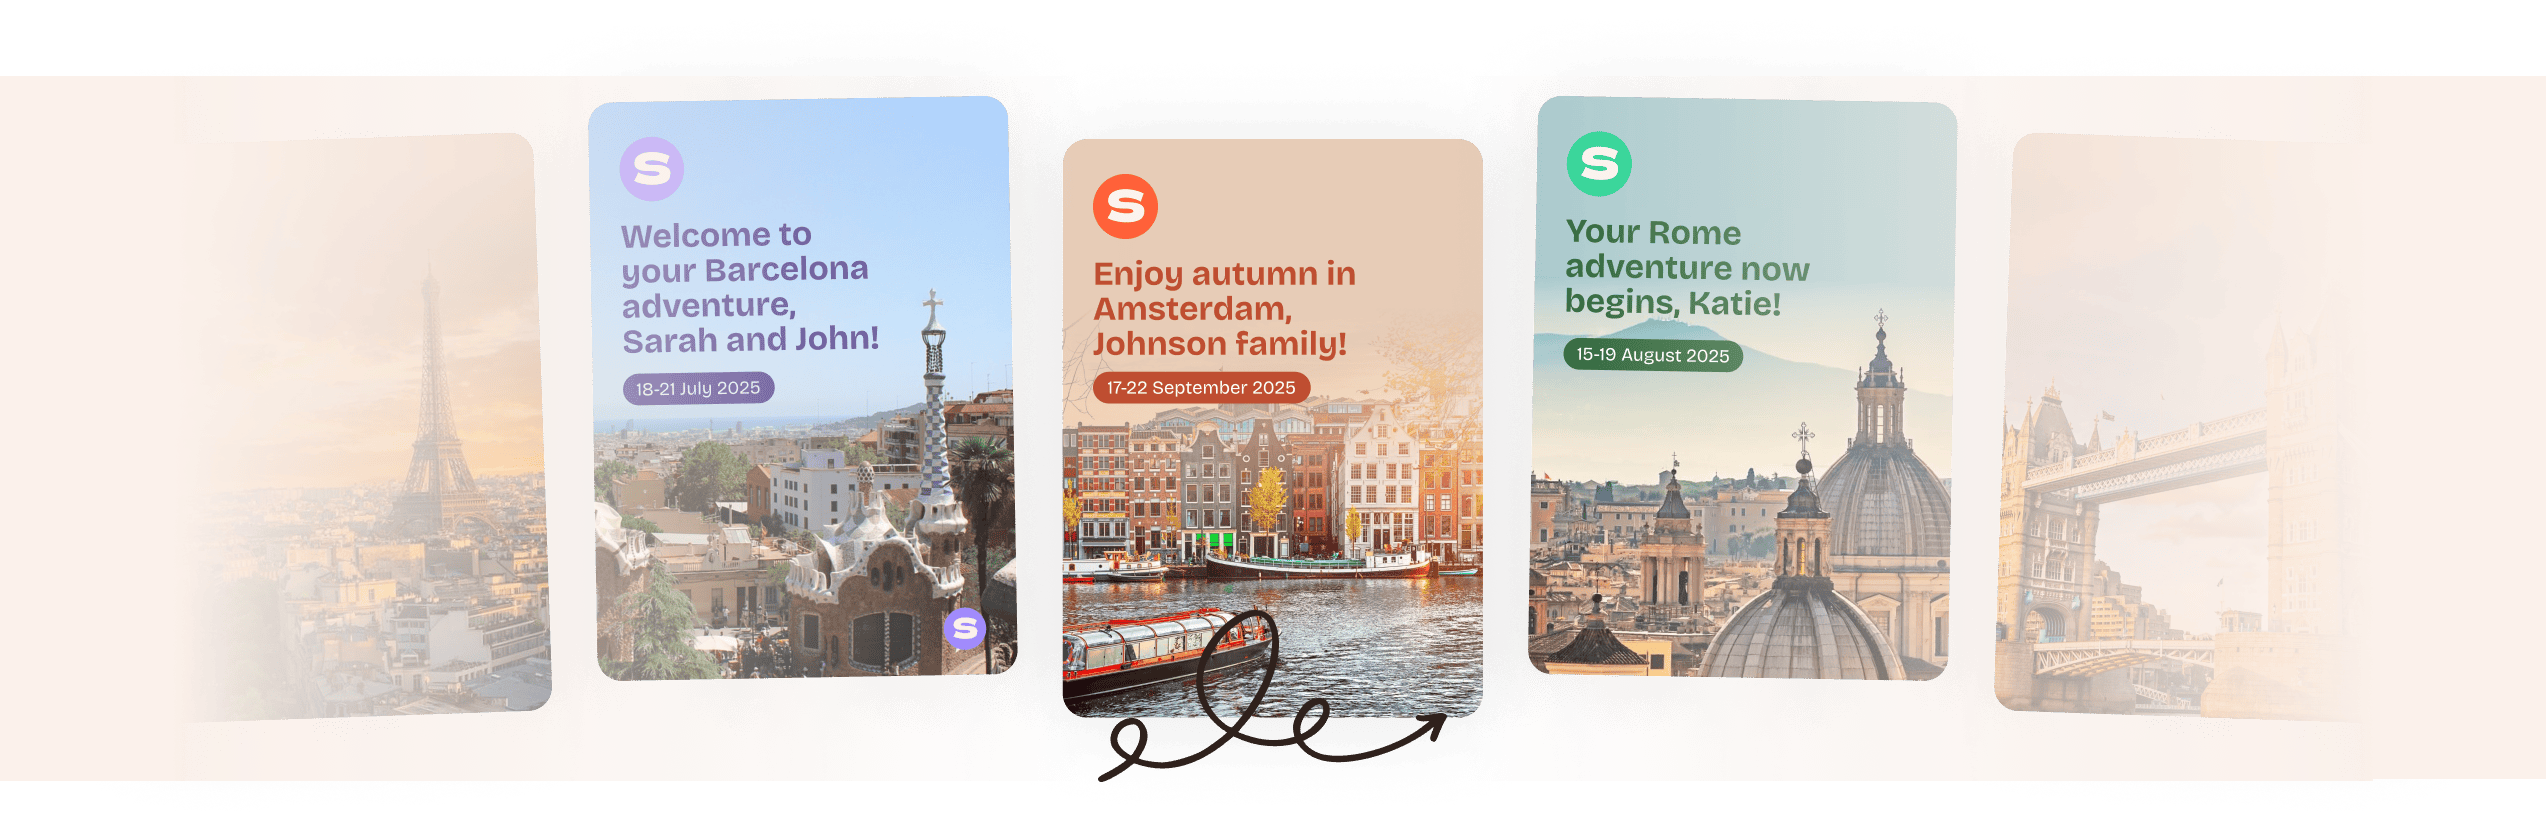
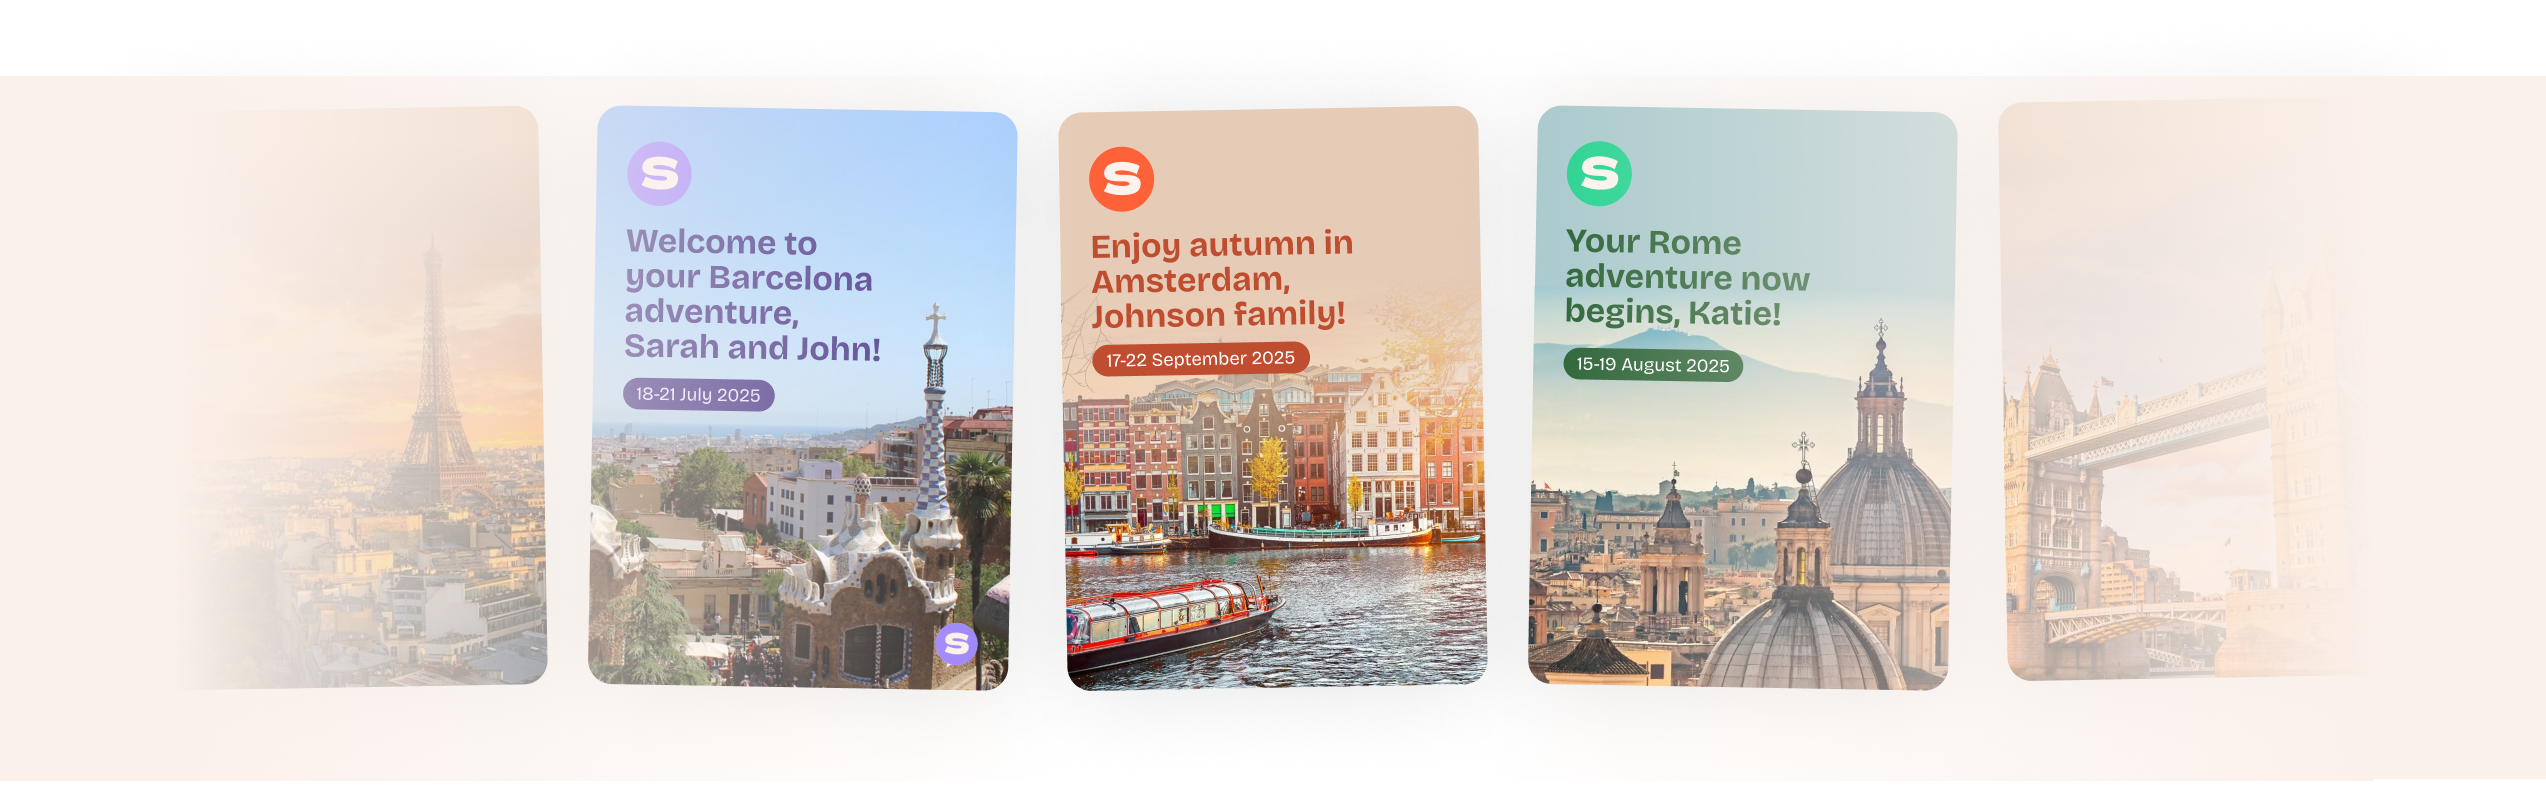
Uprava stylu na mobilu a desktopu

Changed region(s): [[0.1241, 0.0903, 0.8998, 0.9335]]

diff --git a/src/styles.css b/src/styles.css
@@ -42,7 +42,7 @@ hr.svg-divider {
     border: none;
     background-image: url("img/hr.svg"); /* Path to your SVG file */
     background-repeat: no-repeat;
-    background-size: 100vw 2px; /* Stretch to full width, maintain aspect ratio */
+    background-size: 200vw 2px; /* Stretch to full width, maintain aspect ratio */
     background-position: center;
     height: 5px; /* Adjust height according to your SVG height */
     
@@ -73,7 +73,7 @@ hr.svg-divider {
 
 /* Hero Section */
 .hero {
-    padding: 50px 0;
+    padding: 0 0;
     text-align: center;
 }
 
@@ -95,7 +95,7 @@ hr.svg-divider {
 .hero-text {
     max-width: 1070px;
     margin: 0 auto;
-    padding: 0 10px;
+    margin-top: 100px;
     line-height: 1.5;
 }
 
@@ -113,7 +113,6 @@ hr.svg-divider {
     color: var(--text-color);
     font-weight: 400;
 }
-
 
 /* Button animation  */
 .button {
@@ -241,6 +240,11 @@ hr.svg-divider {
         padding: 0 0;
         text-align: center;
     }
+    .hero-text {
+        max-width: 1070px;
+        margin: 0 auto;
+    }
+
     .hero-text h1 {
         font-size: 36px;
         line-height: 105%;
@@ -250,12 +254,15 @@ hr.svg-divider {
         font-weight: 800;
     }
     .hero-text p {
+        width: 90%;
+        margin: 0 auto;
         font-size: 18px;
         line-height: 26px;
-        margin: 16px 0 8px 0;
+
     }
     .scroller {
         display: none;
+        margin-top: 500px;
     }
     .cards {
         display: flex; /* Use flexbox for easy centering */
@@ -525,6 +532,10 @@ hr.svg-divider {
         }
 }
 @media (max-width: 430px) {
+    .intro {
+        width: 100%;
+    }
+ 
     .intro-placeholder {
         position: absolute;
         width: 100%;
@@ -549,35 +560,48 @@ hr.svg-divider {
         height: auto; /* Adjust height as needed */
         object-fit: cover; /* Ensure the image covers the area */
         object-position: top; /* Adjust as needed */
-        border-radius: 0 0 24px 24px;
+        border-radius: 0 0 16px 16px;
     }
     .intro-title {
-        margin-right: 20px;
         padding-top: 16px;
-        padding-left: 16px;
-        font-size: 36px;
-        line-height: 40px;
-        margin-top: 0;
-        margin-bottom: 8px;
+        margin-right: 12px;
+        margin-bottom: -10px;
+        padding-left: 12px;
+        font-size: 32px;
+        line-height: 36px;
         letter-spacing: -1.04px;
         font-weight: 800;
         hyphens: manual;
         display: block;
-        border-radius: 16px;
+        border-radius: 12px;
         background-color: var(--background-color);
     }
 
     .intro-description {
-        display: inline;
-        font-size: 18px;
+        width: 94%;
+        padding-left: 12px;
         line-height: 26px;
         box-decoration-break: clone; /* Ensure the background follows each line */
         -webkit-box-decoration-break: clone; /* Webkit support */
         }
+    .inline {
+        display: block;
+        font-size: 18px;
+        line-height: 1.5;
+        color: var(--secondary-text);
+        background-color: #FCF3EE;
+        border-radius: 20px;
+        box-decoration-break: clone; /* Ensure the background follows each line */
+        -webkit-box-decoration-break: clone; /* Webkit support */
+        padding: 0 4px 4px 0;
+        margin-top: 0;
+        position: relative;
+        }
+
     .button {
         margin-top: 20px;
         padding: 16px 48px 16px 48px;
-        width: 100%;
+        width: 94%;
         }
 
     .logo-float {
@@ -616,7 +640,8 @@ hr.svg-divider {
     margin: 0 auto; /* Center the div horizontally */
     max-width: 1200px;
     padding: 0 100px;
-    padding-bottom: 50px;
+    padding-top: 40px;
+    padding-bottom: 40px;
 }
 
 .benefit {
@@ -813,8 +838,9 @@ hr.svg-divider {
         min-width: 0;
     }
     .testimonial-text {
-        font-size: 18px;
-        line-height: 1.5;
+        width: 104%;
+        font-size: 16px;
+        line-height: 1.4;
         margin-bottom: 16px;
     }
     .quote-mark {
@@ -871,7 +897,7 @@ footer {
 }
 
 .footer-text {
-    margin: -15px auto;
+    margin: -5px auto;
     font-size: 24px;
     font-weight: 400;
     font-family: Kalam;
@@ -1924,6 +1950,17 @@ footer {
         width: 90%;
         margin: auto;
     }
+    .faq-answer p {
+        font-size: 16px;
+        line-height: 22px;
+        width: 86%;
+        margin-bottom: 20px;
+    }
+    .faq-answer li {
+        font-style: normal;
+        padding-bottom: 12px;
+        width: 92%;
+    }
 }
 /* Index animation scroller */
 
@@ -1936,8 +1973,8 @@ footer {
 
 .svg-container {
     position: absolute;
-    bottom: -5%; /* Overlap 50% into the next section */
-    left: 45%; /* Center horizontally */
+    bottom: 58%; /* Overlap 50% into the next section */
+    left: 46%; /* Center horizontally */
     transform: translateX(-50%); /* Adjust for exact centering */
     z-index: 10; /* Ensure it's above other content */
     width: 150px; /* Adjust based on your SVG size */
@@ -1945,8 +1982,8 @@ footer {
 }
 
 .arrow-svg {
-    width: 150%; /* Ensure the SVG fills its container */
-    height: 150%; /* Ensure the SVG fills its container */
+    width: 160%; /* Ensure the SVG fills its container */
+    height: 160%; /* Ensure the SVG fills its container */
 }
 
 .scroller::before,
@@ -2092,11 +2129,25 @@ footer {
     }
 
     .hp {
-        margin-top: -50px;
+        margin-top: 0px;
     }
 
     @media (max-width: 430px) {
         .hp {
             margin-top: 15px;
+        }
+        .svg-container {
+            position: absolute;
+            bottom: 56%; /* Overlap 50% into the next section */
+            left: 60%; /* Center horizontally */
+            transform: translateX(-50%); /* Adjust for exact centering */
+            z-index: 10; /* Ensure it's above other content */
+            width: 150px; /* Adjust based on your SVG size */
+            height: 150px; /* Adjust based on your SVG size */
+        }
+        
+        .arrow-svg {
+            width: 80%; /* Ensure the SVG fills its container */
+            height: 80%; /* Ensure the SVG fills its container */
         }
         }

diff --git a/src/components/CityTemplate.jsx b/src/components/CityTemplate.jsx
@@ -47,11 +47,9 @@ function CityTemplate({ city, planner, getItineraryLink, tourGuideLink }) {
         <div className="intro-content">
         <div className="intro-title-container">
           <div className="intro-title">
-            Get a <span className="highlight">personalized</span> {city} itinerary: Relax and enjoy your trip
+            Get a <span className="highlight">personalized</span> itinerary for your trip to {city}.
           </div>
-          <div className="arrow">
-            <img src="/img/arrow.png" alt="Arrow" />
-          </div>
+
           </div>
           <div className="intro-description"><span class="inline">
             Forget the stress and hours of planning and experience <strong>a&nbsp;truly authentic {city} adventure</strong>, tailored to your interests and time constraints.</span>
@@ -86,7 +84,7 @@ function CityTemplate({ city, planner, getItineraryLink, tourGuideLink }) {
           <div className="why-content">
             <div className="why-text">
               <div className="why-header">
-                <h2>Escape to {city} with a unique itinerary designed just for you by a local expert</h2>
+                <h2>Escape to {city} with a unique itinerary designed just for you by a&nbsp;local expert</h2>
                 <p>Planning a trip can be overwhelming, but it doesn't have to be! Imagine...</p>
               </div>
               
@@ -157,7 +155,7 @@ function CityTemplate({ city, planner, getItineraryLink, tourGuideLink }) {
         <div className="contents-container">
           <div className="contents-header">
             <h2>What will you get?</h2>
-            <p>For one price, you're getting more than just an itinerary for your trip. We want you to make your trip as smooth as possible.</p>
+            <p>For one price, you're getting <strong>more than just an itinerary</strong> for your trip. We want you to make your trip as smooth as possible.</p>
           </div>
           
           <div className="contents-grid">
@@ -316,7 +314,7 @@ function CityTemplate({ city, planner, getItineraryLink, tourGuideLink }) {
               </button>
               <div className="faq-answer">
                 <p>Planning a trip to {city} should be exciting, not exhausting! But let's face it, researching destinations, booking hotels, and creating a perfect itinerary can quickly become overwhelming.</p>
-                <p>That's where a travel planner comes in. I handle all the time-consuming logistics, so you can focus on enjoying your trip. I'll curate a personalized itinerary filled with unique experiences you might miss on your own.</p>
+                <p>That's where a travel planner comes in. We'll handle all the time-consuming logistics, so you can focus on enjoying your trip. We'll curate a personalized itinerary filled with unique experiences you might miss on your own.</p>
                 <p>Think of it as an investment in stress-free travel and unforgettable memories. You deserve a vacation where you can truly relax and explore, and I can help make that happen.</p>
               </div>
             </div>
@@ -329,7 +327,7 @@ function CityTemplate({ city, planner, getItineraryLink, tourGuideLink }) {
                 </div>
               </button>
               <div className="faq-answer">
-                <p>While technology offers generic travel plans, our itineraries are crafted with years of firsthand experience in {city}. We don't rely on algorithms or online articles; we leverage our deep knowledge of the city to curate unique experiences.</p>
+                <p>While today's technology full of AI offers generic travel plans, our itineraries are crafted with years of firsthand experience in {city}. We don't rely on algorithms or online articles; we leverage our deep knowledge of the city to curate unique experiences.</p>
                 <p>Our personalized itineraries go beyond the typical tourist route, offering hidden gems, local insights, and tailored recommendations. You'll discover authentic {city}, from its charming neighborhoods to its culinary delights.</p>
               </div>
             </div>
@@ -362,7 +360,7 @@ function CityTemplate({ city, planner, getItineraryLink, tourGuideLink }) {
                   <li><b>Booking links:</b> We'll provide direct links for booking tickets to attractions and tours, saving you time and hassle.</li>
                   <li><b>Support throughout your trip:</b> We're available via WhatsApp for any questions or assistance you may need while in {city}.</li>
                 </ul>
-                <p>Essentially, we <b>don't do</b> any booking or reservations on your behalf. This includes flights, accommodation, attractions and restaurants.</p>
+                <p>Essentially, you get everything you will need, <b>except for</b> any bookings or reservations made on your behalf. This includes flights, accommodation, attractions, and restaurants.</p>
               </div>
             </div>
 

diff --git a/src/components/Footer.jsx b/src/components/Footer.jsx
@@ -65,9 +65,9 @@ function Footer() {
       <div className="empty"></div>
       <hr className="svg-divider" />
       <span className="footer-credits">
-        <span className="text-cover">That's all, that's it! © SuperGuided.</span>
+        <span className="text-cover">SuperGuided © 2025</span>
         <br />
-        <span className="message">Be kind 🥰, respect each other 🧡 & travel a lot 🌍</span>
+        <span className="message">🌍 Explore more, worry less.</span>
       </span>
     </footer>
   );

diff --git a/src/pages/Home.jsx b/src/pages/Home.jsx
@@ -62,11 +62,10 @@ function Home() {
           <img src="/img/cards/card-06.png" alt="Itineraries" />
           <img src="/img/cards/card-07.png" alt="Itineraries" />
         </div>
-        <div className="svg-container">
+      </section>
+      <div className="svg-container">
           <img src="/img/arrow-hp.svg" alt="Arrow" className="arrow-svg" />
         </div>
-      </section>
-
       <div className="container">
         <section className="hero">
           <div className="hero-text">

diff --git a/src/components/Contact.jsx b/src/components/Contact.jsx
@@ -18,7 +18,7 @@ function Contact() {
         </div>
         <div className="contact-box">
           <span className="contact-icon">🔥</span>
-          <strong>New planners</strong>
+          <strong>New partners</strong>
           <a href="mailto:join@superguided.com">join@superguided.com</a>
         </div>
       </div>
